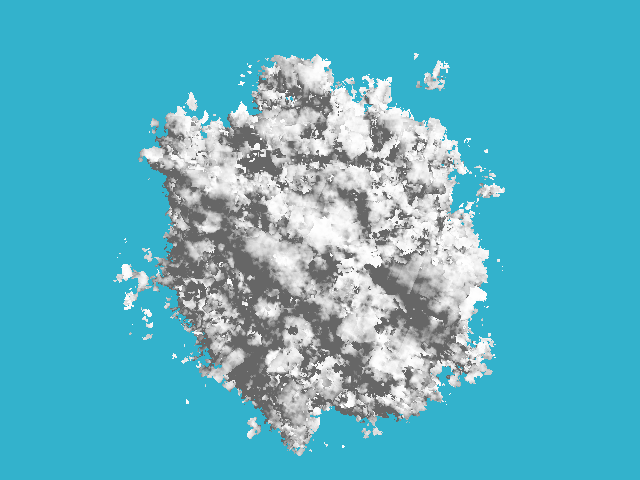
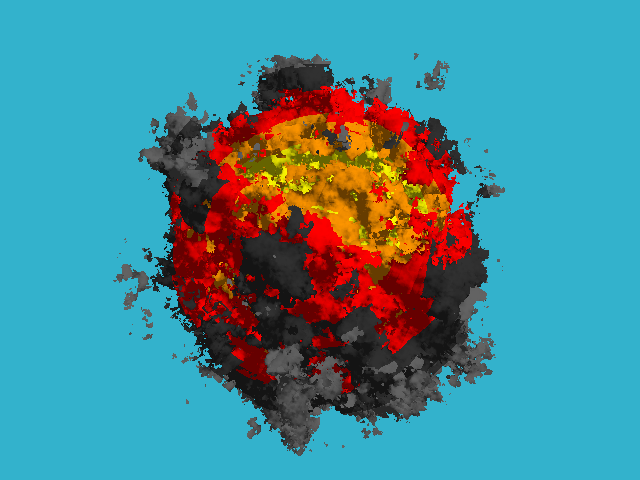
Step 7, the final one: fire colors. I'm not sure if the ramp of colors is working correctly though....

diff --git a/main.go b/main.go
@@ -73,6 +73,14 @@ func lerp (v0, v1, t float64) float64 {
 }
 
 
+func lerpColor (v0, v1 color.RGBA, t float64) color.RGBA {
+    return color.RGBA{ v0.R + (v1.R-v0.R) * uint8(max(0., min(1.,t))),
+                       v0.G + (v1.G-v0.G) * uint8(max(0., min(1.,t))),
+                       v0.B + (v1.B-v0.B) * uint8(max(0., min(1.,t))),
+                       255 }
+}
+
+
 func noise(x r3.Vector) float64 {
     p := r3.Vector{math.Floor(x.X), math.Floor(x.Y), math.Floor(x.Z)}
     f := r3.Vector{x.X-p.X, x.Y-p.Y, x.Z-p.Z}
@@ -116,6 +124,25 @@ func fractalBrownianMotion(x r3.Vector) float64 {
     return f/0.9375;
 }
 
+func paletteFire(d float64) color.RGBA {
+
+    yellow := color.RGBA{uint8(255), uint8(250), uint8(0), uint8(255)} // "note that the color is "hot", i.e. has components >255"
+    orange := color.RGBA{uint8(255), uint8(150), uint8(0), uint8(255)}
+    red := color.RGBA{uint8(255), uint8(0), uint8(0), uint8(255)}
+    darkGray := color.RGBA{uint8(50), uint8(50), uint8(50), uint8(255)}
+    gray := color.RGBA{uint8(100), uint8(100), uint8(100), uint8(255)}
+
+    x := max(0., min(1., d))
+    if x<0.25 {
+        return lerpColor(gray, darkGray, x*4.0)
+    } else if x<0.5 {
+        return lerpColor(darkGray, red, x*4.0 - 1.0)
+    } else if x<0.75 {
+        return lerpColor(red, orange, x*4.0 - 2.0)
+    }
+    return lerpColor(orange, yellow, x*4.0 - 3.0)
+}
+
 func main() {
     const width = 640.
     const height = 480.
@@ -123,6 +150,7 @@ func main() {
 
     backgroundColor := color.RGBA{51, 178, 204, 255}
     whiteColor := color.RGBA{255, 255,255, 255}
+    _ = whiteColor
 
 	f, _ := os.OpenFile("out.png", os.O_WRONLY|os.O_CREATE, 0600)
 	defer f.Close()
@@ -137,12 +165,14 @@ func main() {
             dirZ = -height/(2.*math.Tan(fov/2.))
 
             var hit r3.Vector
-            if sphereTrace(r3.Vector{0, 0, 3}, r3.Vector.Normalize(r3.Vector{dirX, dirY, dirZ}), &hit) {
-                //img.Set(int(i), int(j), color.RGBA{255, 255, 255, 255})
+            if sphereTrace(r3.Vector{0, 0, 3}, r3.Vector.Normalize(r3.Vector{dirX, dirY, dirZ}), &hit) {    // Camera is placed on {0, 0, 3}
+                noiseLevel := (sphereRadius - r3.Vector.Norm(hit))/noiseAmplitude
                 lightSrc := r3.Vector{10, 10, 10}
                 lightDir := r3.Vector.Normalize(r3.Vector.Sub(lightSrc, hit))
                 lightIntensity := max(0.4, r3.Vector.Dot(lightDir,distanceFieldNormal(hit)))
-                img.Set(int(i), int(j), multiplyColorIntensity(whiteColor, lightIntensity))
+                //img.Set(int(i), int(j), multiplyColorIntensity(whiteColor, lightIntensity))
+                currColor := paletteFire((-0.2 + noiseLevel)*2)
+                img.Set(int(i), int(j), multiplyColorIntensity(currColor, lightIntensity))
             } else {
                 img.Set(int(i), int(j), backgroundColor)
             }
